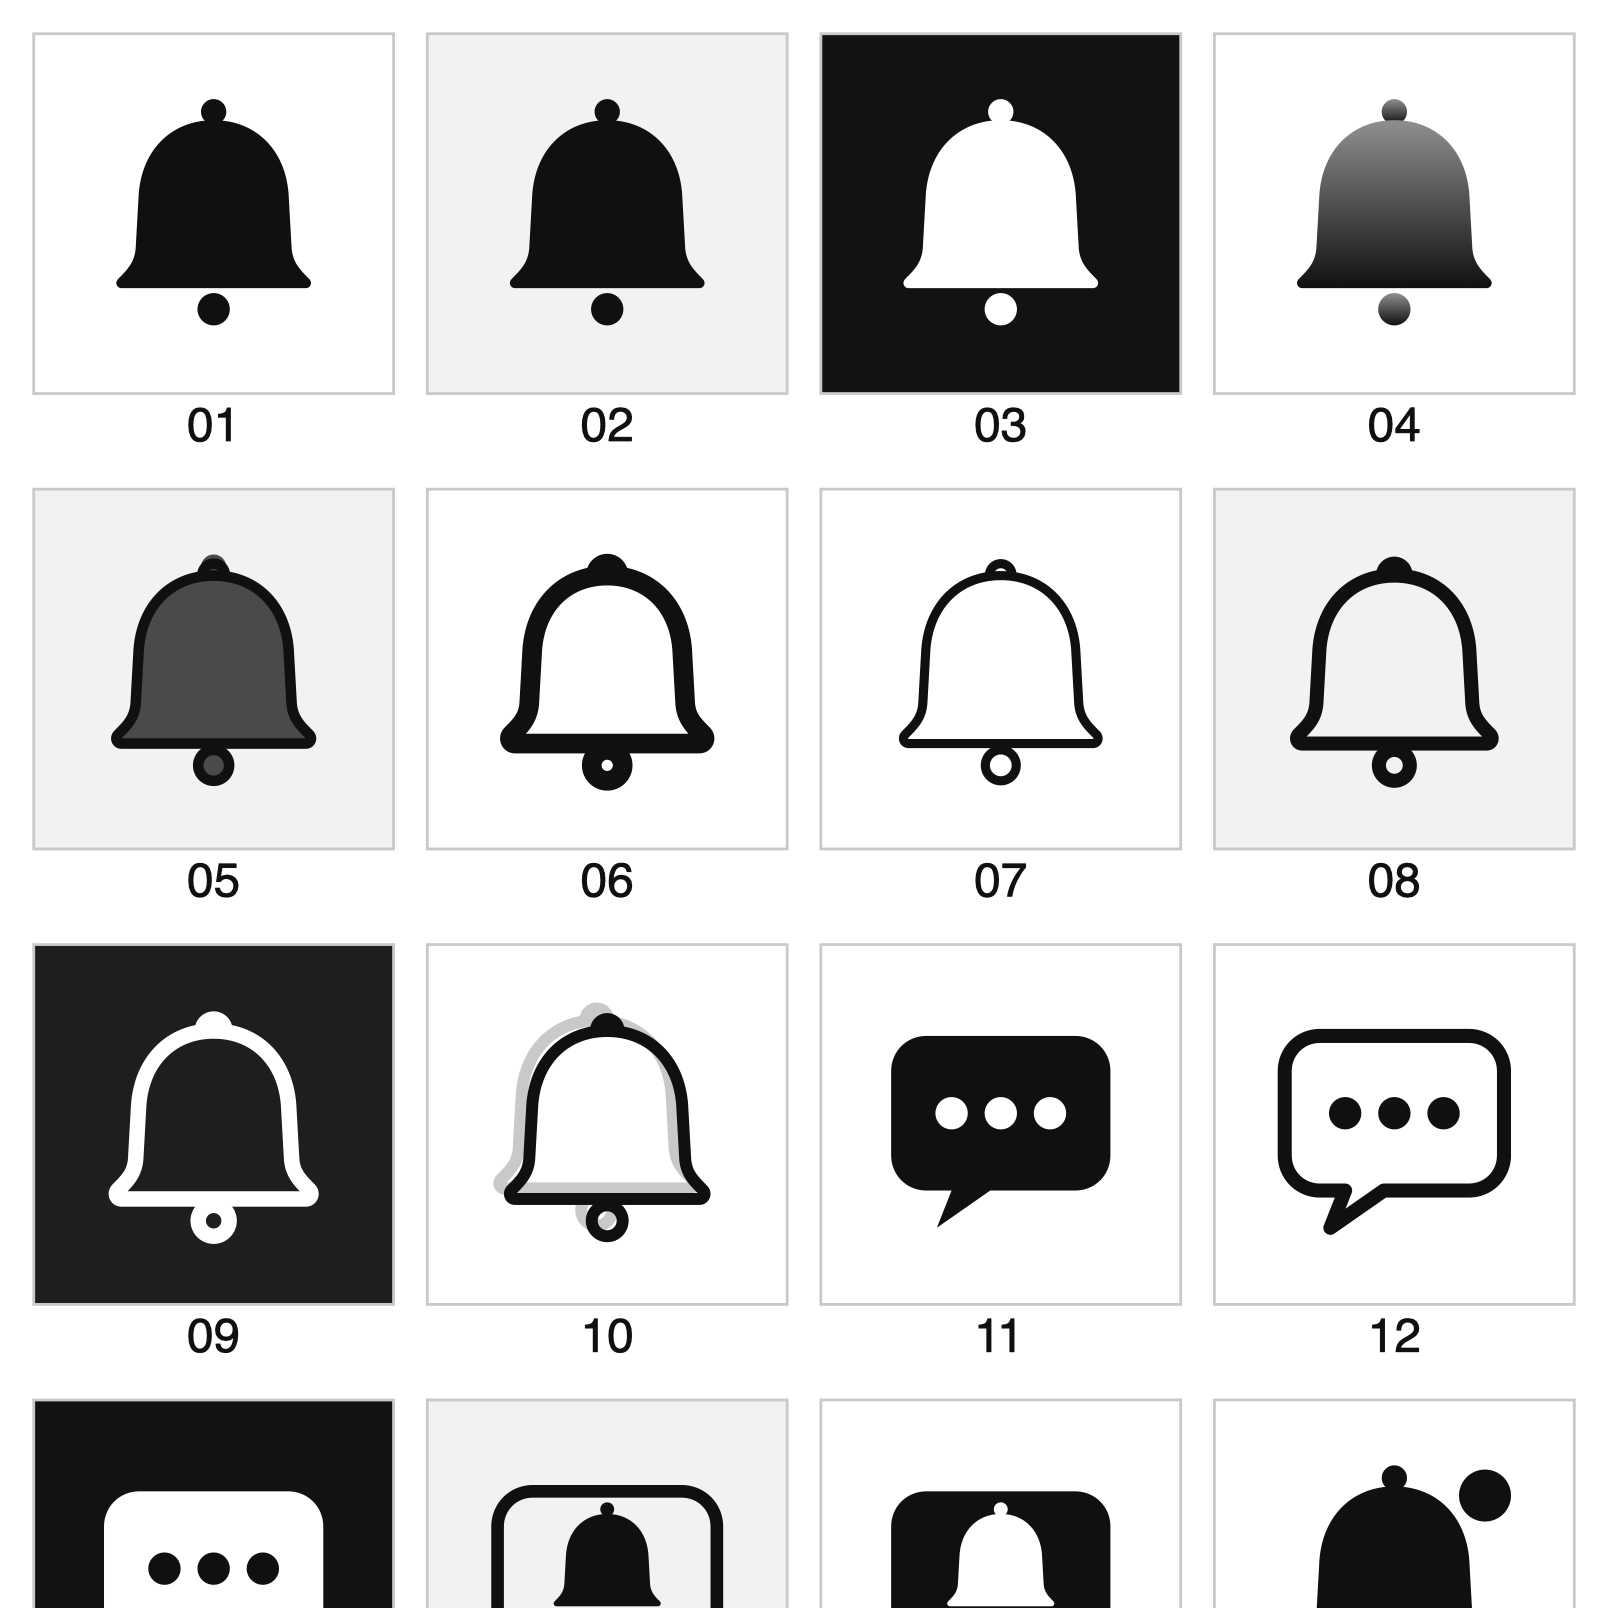
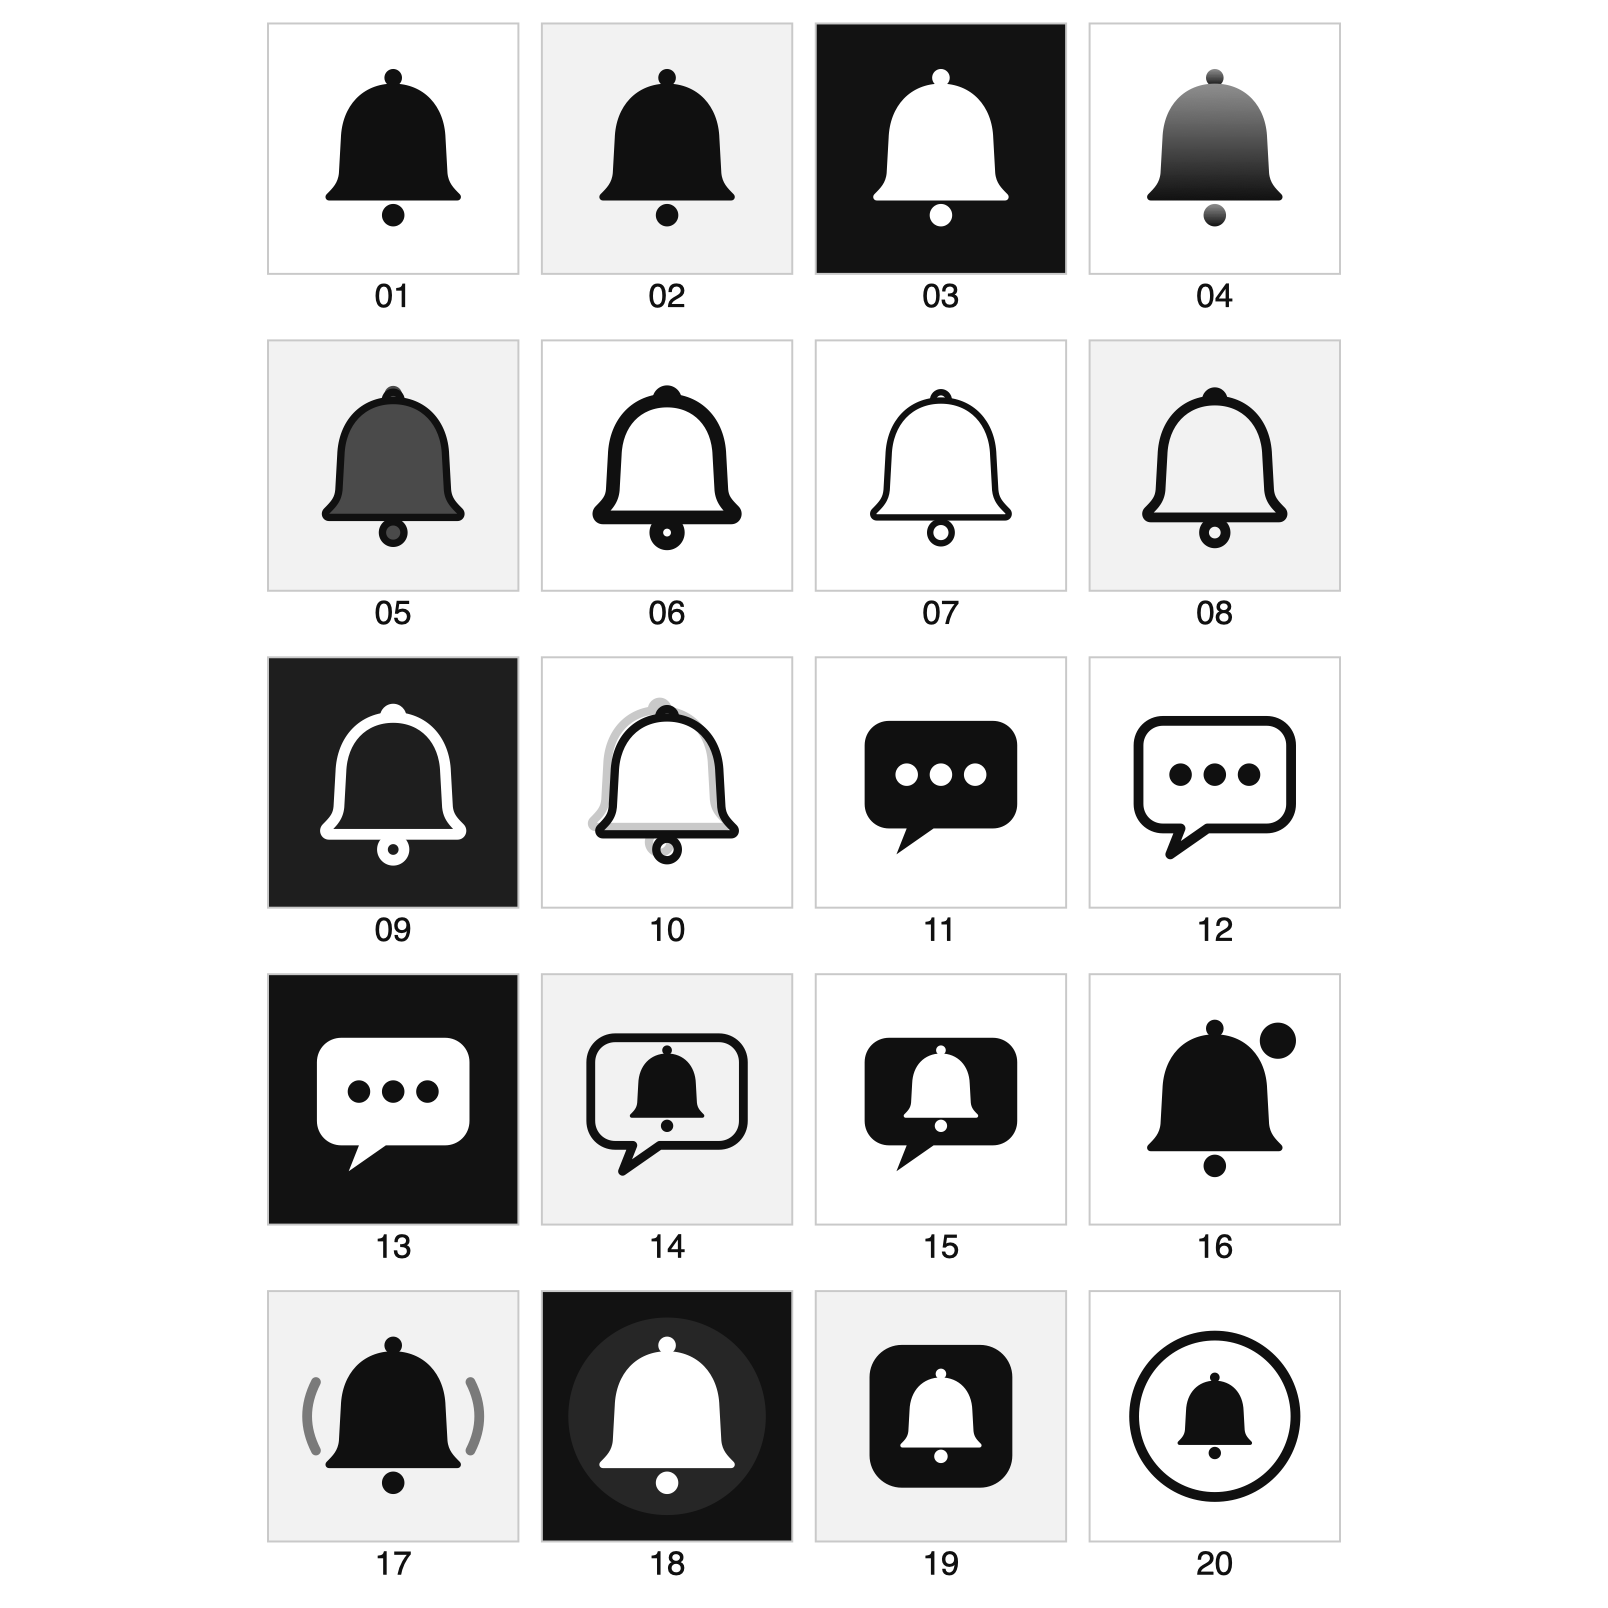
[fix] 一覧のプレビューに余白が付かないよう正方形に描く

diff --git a/design/app-icon/scripts/make_candidates.py b/design/app-icon/scripts/make_candidates.py
@@ -236,29 +236,33 @@ def overview_svg(columns: int = 4, cell: int = 256, gap: int = 24, label: int = 
     rows = (len(CANDIDATES) + columns - 1) // columns
     width = columns * cell + (columns + 1) * gap
     height = rows * (cell + label) + (rows + 1) * gap
-    parts = [f'<rect width="{width}" height="{height}" fill="{BG_WHITE}"/>']
+    # qlmanage は正方形のサムネイルを作るため、余白が付かないよう正方形にする
+    side = max(width, height)
+    offset_x = (side - width) / 2
+    offset_y = (side - height) / 2
+    parts = [f'<rect width="{side}" height="{side}" fill="{BG_WHITE}"/>']
     for index, candidate in enumerate(CANDIDATES):
         column = index % columns
         row = index // columns
         x = gap + column * (cell + gap)
         y = gap + row * (cell + label + gap)
         parts.append(
-            f'<g transform="translate({x} {y}) scale({scale})">'
+            f'<g transform="translate({x + offset_x} {y + offset_y}) scale({scale})">'
             f'<rect width="{SIZE}" height="{SIZE}" fill="{candidate["bg"]}"/>'
             f'{"".join(candidate["elements"])}</g>'
         )
         parts.append(
-            f'<rect x="{x}" y="{y}" width="{cell}" height="{cell}" fill="none" '
-            f'stroke="{GRAY_LIGHT}" stroke-width="2"/>'
+            f'<rect x="{x + offset_x}" y="{y + offset_y}" width="{cell}" height="{cell}" '
+            f'fill="none" stroke="{GRAY_LIGHT}" stroke-width="2"/>'
         )
         parts.append(
-            f'<text x="{x + cell / 2}" y="{y + cell + 34}" text-anchor="middle" '
-            f'font-family="Helvetica, Arial, sans-serif" font-size="34" fill="{INK}">'
-            f'{index + 1:02d}</text>'
+            f'<text x="{x + offset_x + cell / 2}" y="{y + offset_y + cell + 34}" '
+            f'text-anchor="middle" font-family="Helvetica, Arial, sans-serif" '
+            f'font-size="34" fill="{INK}">{index + 1:02d}</text>'
         )
     return (
-        f'<svg xmlns="http://www.w3.org/2000/svg" width="{width}" height="{height}" '
-        f'viewBox="0 0 {width} {height}">\n  ' + "\n  ".join(parts) + "\n</svg>\n"
+        f'<svg xmlns="http://www.w3.org/2000/svg" width="{side}" height="{side}" '
+        f'viewBox="0 0 {side} {side}">\n  ' + "\n  ".join(parts) + "\n</svg>\n"
     )
 
 
